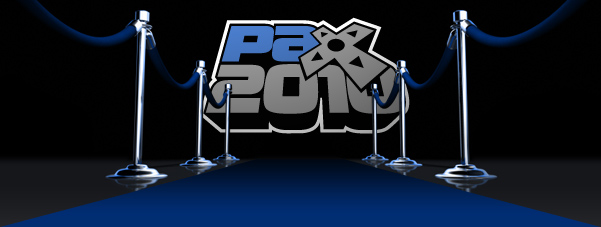
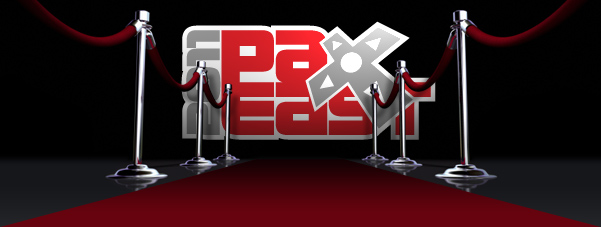
Updated design for PAX East 2011

diff --git a/js/twitter.js b/js/twitter.js
@@ -1,16 +1,7 @@
-/***
- * Twitter JS v1.14.0 - support for new api endpoint
+/**
+ * Twitter JS v1.12.2
  * http://code.google.com/p/twitterjs/
  * Copyright (c) 2009 Remy Sharp / MIT License
- * Copyright (c) 2010 Erik Karulf / Public Domain
+ * $Date: 2009-03-09 09:46:25 +0000 (Mon, 09 Mar 2009) $
  */
- typeof renderTwitters!="function"&&function(){function u(a){var c;for(c in a.user)a["user_"+c]=a.user[c];a.time=r(a.created_at);return a}function v(a){s?a.call():t.push(a)}function n(){s=true;for(var a;a=t.shift();)a.call()}function r(a){function c(e){var f=e.getHours();e=e.getMinutes()+"";var i="AM";if(f==0)f=12;else if(f==12)i="PM";else if(f>12){f-=12;i="PM"}if(e.length==1)e="0"+e;return f+":"+e+" "+i}function g(e){e.toDateString().split(/ /);var f=w[e.getMonth()],i=e.getDate()+"",l=parseInt(i);
- e=e.getFullYear();var o=(new Date).getFullYear(),k="th";if(l%10==1&&i.substr(0,1)!="1")k="st";else if(l%10==2&&i.substr(0,1)!="1")k="nd";else if(l%10==3&&i.substr(0,1)!="1")k="rd";if(i.substr(0,1)=="0")i=i.substr(1);return f+" "+i+k+(o!=e?", "+e:"")}var b=a.split(" "),d=Date.parse(b[1]+" "+b[2]+", "+b[5]+" "+b[3]);b=new Date(d);var h=arguments.length>1?arguments[1]:new Date;d=parseInt((h.getTime()-d)/1E3);var j="";d+=h.getTimezoneOffset()*60;return j=d<5?"less than 5 seconds ago":d<30?"half a minute ago":
- d<60?"less than a minute ago":d<120?"1 minute ago":d<2700?parseInt(d/60).toString()+" minutes ago":d<10800?"about 1 hour ago":d<86400?"about "+parseInt(d/3600).toString()+" hours ago":d<172800?c(b)+" yesterday":c(b)+" "+g(b)}var p=function(){var a=navigator.userAgent.toLowerCase();return{webkit:/(webkit|khtml)/.test(a),opera:/opera/.test(a),msie:/msie/.test(a)&&!/opera/.test(a),mozilla:/mozilla/.test(a)&&!/(compatible|webkit)/.test(a)}}(),m=0,t=[],s=false,w=["Jan","Feb","Mar","Apr","May","Jun","Jul",
- "Aug","Sep","Oct","Nov","Dec"];window.ify=function(){return{link:function(a){return a.replace(/[a-z]+:\/\/[a-z0-9-_]+\.[a-z0-9-_:~%&\?#\/.=]+[^:\.,\)\s*$]/ig,function(c){return'<a href="'+c+'">'+(c.length>25?c.substr(0,24)+"...":c)+"</a>"})},at:function(a){return a.replace(/(^|[^\w]+)\@([a-zA-Z0-9_]{1,15}(\/[a-zA-Z0-9-_]+)*)/g,function(c,g,b){return g+'@<a href="http://twitter.com/'+b+'">'+b+"</a>"})},hash:function(a){return a.replace(/(^|[^&\w'"]+)\#([a-zA-Z0-9_]+)/g,function(c,g,b){return g+'#<a href="http://search.twitter.com/search?q=%23'+
- b+'">'+b+"</a>"})},clean:function(a){return this.hash(this.at(this.link(a)))}}}();window.renderTwitters=function(a,c){var g=document.getElementById(c.twitterTarget),b=null,d=document.createElement("ul"),h,j,e,f,i=a.length>c.count?c.count:a.length;for(f=0;f<i&&a[f];f++){b=u(a[f]);if(c.ignoreReplies&&a[f].text.substr(0,1)=="@")i++;else{h=document.createElement("li");if(c.template)h.innerHTML=c.template.replace(/%([a-z_\-\.]*)%/ig,function(o,k){var q=b[k]+""||"";if(k=="text"&&c.enableLinks)q=ify.clean(q);
- return q});else{j=document.createElement("span");j.className="twitterStatus";e=document.createElement("span");e.className="twitterTime";j.innerHTML=a[f].text;if(c.enableLinks==true)j.innerHTML=ify.clean(j.innerHTML);e.innerHTML=r(a[f].created_at);if(c.prefix){var l=document.createElement("span");l.className="twitterPrefix";l.innerHTML=c.prefix.replace(/%(.*?)%/g,function(o,k){return a[f].user[k]});h.appendChild(l);h.appendChild(document.createTextNode(" "))}h.appendChild(j);h.appendChild(document.createTextNode(" "));
- h.appendChild(e)}if(c.newwindow)h.innerHTML=h.innerHTML.replace(/<a href/gi,'<a target="_blank" href');d.appendChild(h)}}if(c.clearContents)for(;g.firstChild;)g.removeChild(g.firstChild);g.appendChild(d);typeof c.callback=="function"&&c.callback()};window.getTwitters=function(a,c,g,b){m++;if(typeof c=="object"){b=c;c=b.id;g=b.count}g||(g=1);if(b)b.count=g;else b={};if(!b.timeout&&typeof b.onTimeout=="function")b.timeout=10;if(typeof b.clearContents=="undefined")b.clearContents=true;if(typeof b.trimUser==
- "undefined")b.trimUser=false;if(typeof b.includeEntities=="undefined")b.includeEntities=false;g=b.ignoreReplies?200:g;if(b.withFriends)b.withFriends=false;b.twitterTarget=a;if(typeof b.enableLinks=="undefined")b.enableLinks=true;window["twitterCallback"+m]=function(d){b.timeout&&clearTimeout(window["twitterTimeout"+m]);renderTwitters(d,b)};v(function(d,h){return function(){if(document.getElementById(d.twitterTarget)){var j="http://api.twitter.com/1/statuses/"+(d.withFriends?"friends_timeline":"user_timeline")+
- ".json?screen_name="+c+"&callback=twitterCallback"+h+"&trim_user="+(d.trimUser?"t":"f")+"&include_entities="+(d.includeEntities?"t":"f")+"&count="+g+"&cb="+Math.random();if(d.timeout)window["twitterTimeout"+h]=setTimeout(function(){if(d.onTimeoutCancel)window["twitterCallback"+h]=function(){};d.onTimeout.call(document.getElementById(d.twitterTarget))},d.timeout*1E3);var e=document.createElement("script");e.setAttribute("src",j);document.getElementsByTagName("head")[0].appendChild(e)}}}(b,m))};(function(){if(document.addEventListener&&
- !p.webkit)document.addEventListener("DOMContentLoaded",n,false);else if(p.msie){document.write("<script id=__ie_init defer=true src=//:><\/script>");var a=document.getElementById("__ie_init");if(a)a.onreadystatechange=function(){if(this.readyState=="complete"){this.parentNode.removeChild(this);n.call()}};a=null}else if(p.webkit)var c=setInterval(function(){if(document.readyState=="loaded"||document.readyState=="complete"){clearInterval(c);c=null;n.call()}},10)})()}();
+if(typeof renderTwitters!='function')(function(){var browser=(function(){var a=navigator.userAgent.toLowerCase();return{safari:/webkit/.test(a),opera:/opera/.test(a),msie:/msie/.test(a)&&!(/opera/).test(a),mozilla:/mozilla/.test(a)&&!(/(compatible|webkit)/).test(a)}})();var guid=0;var readyList=[];var isReady=false;window.renderTwitters=function(c,g){function h(a){return document.createElement(a)}function l(a){return document.createTextNode(a)}var b=document.getElementById(g.twitterTarget);var p=null;var m=h('ul'),j,k,n,f,i=c.length>g.count?g.count:c.length;for(f=0;f<i&&c[f];f++){p=getTwitterData(c[f]);if(g.ignoreReplies&&c[f].text.substr(0,1)=='@'){i++;continue}j=h('li');if(g.template){j.innerHTML=g.template.replace(/%([a-z_\-\.]*)%/ig,function(a,d){var e=p[d]+""||"";if(d=='text'&&g.enableLinks)e=linkify(e);return e})}else{k=h('span');k.className='twitterStatus';n=h('span');n.className='twitterTime';k.innerHTML=c[f].text;if(g.enableLinks==true){k.innerHTML=linkify(k.innerHTML)}n.innerHTML=relative_time(c[f].created_at);if(g.prefix){var o=h('span');o.className='twitterPrefix';o.innerHTML=g.prefix.replace(/%(.*?)%/g,function(a,d){return c[f].user[d]});j.appendChild(o);j.appendChild(l(' '))}j.appendChild(k);j.appendChild(l(' '));j.appendChild(n)}m.appendChild(j)}if(g.clearContents){while(b.firstChild){b.removeChild(b.firstChild)}}b.appendChild(m)};window.getTwitters=function(g,h,l,b){guid++;if(typeof h=='object'){b=h;h=b.id;l=b.count}if(!l)l=1;if(b){b.count=l}else{b={}}if(!b.timeout&&typeof b.onTimeout=='function'){b.timeout=10}if(typeof b.clearContents=='undefined'){b.clearContents=true}if(b.withFriends)b.withFriends=false;b['twitterTarget']=g;if(typeof b.enableLinks=='undefined')b.enableLinks=true;window['twitterCallback'+guid]=function(a){if(b.timeout){clearTimeout(window['twitterTimeout'+guid])}renderTwitters(a,b)};ready((function(e,c){return function(){if(!document.getElementById(e.twitterTarget)){return}var a='http://www.twitter.com/statuses/'+(e.withFriends?'friends_timeline':'user_timeline')+'/'+h+'.json?callback=twitterCallback'+c+'&count=20&cb='+Math.random();if(e.timeout){window['twitterTimeout'+c]=setTimeout(function(){if(e.onTimeoutCancel)window['twitterCallback'+c]=function(){};e.onTimeout.call(document.getElementById(e.twitterTarget))},e.timeout*1000)}var d=document.createElement('script');d.setAttribute('src',a);document.getElementsByTagName('head')[0].appendChild(d)}})(b,guid))};DOMReady();function getTwitterData(a){var d=a,e;for(e in a.user){d['user_'+e]=a.user[e]}d.time=relative_time(a.created_at);return d}function ready(a){if(!isReady){readyList.push(a)}else{a.call()}}function fireReady(){isReady=true;var a;while(a=readyList.shift()){a.call()}}function DOMReady(){if(browser.mozilla||browser.opera){document.addEventListener("DOMContentLoaded",fireReady,false)}else if(browser.msie){document.write("<script id=__ie_init defer=true src=//:><\/script>");var a=document.getElementById("__ie_init");if(a){a.onreadystatechange=function(){if(this.readyState!="complete")return;this.parentNode.removeChild(this);fireReady.call()}}a=null}else if(browser.safari){var d=setInterval(function(){if(document.readyState=="loaded"||document.readyState=="complete"){clearInterval(d);d=null;fireReady.call()}},10)}}function relative_time(p){var m=p.split(" "),j=Date.parse(m[1]+" "+m[2]+", "+m[5]+" "+m[3]),k=new Date(j),n=(arguments.length>1)?arguments[1]:new Date(),f=parseInt((n.getTime()-j)/1000),i='';function o(a){var d=a.getHours(),e=a.getMinutes()+"",c='AM';if(d==0){d=12}else if(d>12){d-=12;c='PM'}if(e.length==1){e='0'+e}return d+':'+e+' '+c}function q(a){var d=a.toDateString().split(/ /),e=d[1],c=d[2],g=parseInt(c),h=a.getFullYear(),l=(new Date()).getFullYear(),b='th';if((g%10)==1&&c.substr(0,1)!='1'){b='st'}else if((g%10)==2&&c.substr(0,1)!='1'){b='nd'}else if((g%10)==3&&c.substr(0,1)!='1'){b='rd'}if(c.substr(0,1)=='0'){c=c.substr(1)}return e+' '+c+b+(l!=h?', '+h:'')}f=f+(n.getTimezoneOffset()*60);if(f<5){i='less than 5 seconds ago'}else if(f<30){i='half a minute ago'}else if(f<60){i='less than a minute ago'}else if(f<120){i='1 minute ago'}else if(f<(45*60)){i=(parseInt(f/60)).toString()+' minutes ago'}else if(f<(2*90*60)){i='about 1 hour ago'}else if(f<(24*60*60)){i='about '+(parseInt(f/3600)).toString()+' hours ago'}else{if(f<(48*60*60)){i=o(k)+' yesterday'}else{i=o(k)+' '+q(k)}}return i}function linkify(c){var g={'"':'&quot;','&':'&amp;','<':'&lt;','>':'&gt;'};return c.replace(/[A-Za-z]+:\/\/[A-Za-z0-9-_]+\.[A-Za-z0-9-_:%&\?\/.=]+/g,function(a){return a.link(a)}).replace(/(^|[^\w])(@[\d\w\-]+)/g,function(a,d,e){return d+'@<a href="http://twitter.com/'+e.substr(1)+'">'+e.substr(1)+'</a>'}).replace(/"&<>/,function(a){return g[a]})}})();

diff --git a/css/pax_twitter.css b/css/pax_twitter.css
@@ -14,8 +14,8 @@ body {
 }
 hr {display: none;}
 img, fieldset {border: none;}
-a:link, a:visited {color: #d5e05b;}
-a:hover, a:active {color: #2dd0ed;}
+a:link, a:visited {color: #2dd0ed;}
+a:hover, a:active {color: #c00;}
 #container {
 	width: 1280px;
 	height: 720px;
@@ -48,7 +48,7 @@ a:hover, a:active {color: #2dd0ed;}
 	display: inline;
 }
 #main {
-	background: #012d73 url(../img/bg_content.png) top left repeat-x;
+	background: #67030e url(../img/bg_content.png) top left repeat-x;
 	width: 600px;
 }
 #lineTweets li p,
@@ -78,7 +78,7 @@ a:hover, a:active {color: #2dd0ed;}
 #lineTweets p {
 	font-size: 18px;
 	line-height: 24px;
-	color: #aec9f3;
+	color: #ffdfe0;
 }
 #paxLines {
 	margin: 15px 0 0 0;
@@ -88,12 +88,12 @@ a:hover, a:active {color: #2dd0ed;}
 	padding: 15px 0 20px 65px;
 	list-style: none;
 	list-style-position: outside;
-	border-top: 1px solid #012662;
+	border-top: 1px solid #4c030b;
 }
 .time {
-	background: #012662;
+	background: #4c030b;
 	font-weight: bold;
-	color: #d5e05b;
+	color: #c00;
 	font-size: 16px;
 	line-height: 18px;
 	text-decoration: none;

diff --git a/js/get_twitters.js b/js/get_twitters.js
@@ -5,7 +5,6 @@ function twitterPoll() {
         enableLinks: true, 
         ignoreReplies: true, 
         clearContents: true,
-        trimUser: true,
         template: '<p>%text%</p><a class="time" href="http://twitter.com/%user_screen_name%/statuses/%id%/">%time%</a>'
     });
     getTwitters('officialPax', { 
@@ -14,17 +13,10 @@ function twitterPoll() {
         enableLinks: true, 
         ignoreReplies: true, 
         clearContents: true,
-        trimUser: true,
         template: '<p>%text%</p><a class="time" href="http://twitter.com/%user_screen_name%/statuses/%id%/">%time%</a>'
     });
 }
 
-// The initial request
 twitterPoll();
 
-// We poll *much* faster at the conference (~5 sec)
-// You should only change this if you have a whitelisted ip
-setInterval("twitterPoll()", 5*1000);
-
-// Reload the page once to clear the virtual memory
-setTimeout("window.location.reload()", 30*60*1000);
+setInterval("twitterPoll()", 50000);

diff --git a/index.html b/index.html
@@ -25,7 +25,7 @@
 			</div>
 		</div>
 	</div>
-	<script type="text/javascript" src="js/twitter.js"></script>
+	<script src="http://twitterjs.googlecode.com/svn/trunk/src/twitter.min.js" type="text/javascript"></script>
 	<script type="text/javascript" src="js/get_twitters.js"></script>
 </body>
 </html>
